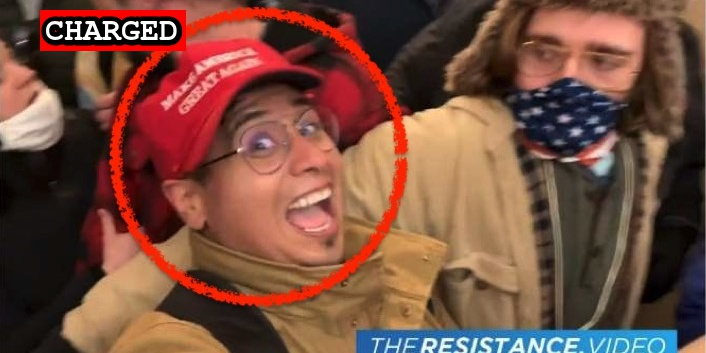
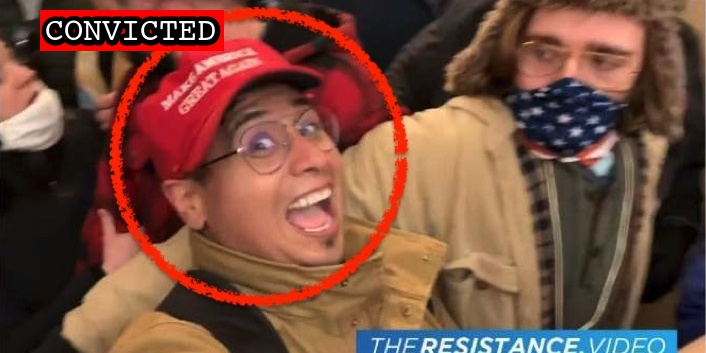
Latest import

Changed region(s): [[0.0623, 0.0, 0.3428, 0.1558]]

diff --git a/docs/_suspects/samuel-montoya.md b/docs/_suspects/samuel-montoya.md
@@ -4,16 +4,16 @@ lastName: Montoya
 hashtag: SamuelMontoya
 aka:
 residence: Texas
-status: Charged
+status: Convicted
 date: 2021-04-08
 charged: 2021-04-08
 indicted:
-convicted: 
+convicted: 2022-11-08
 acquitted:
 sentenced: 
 dismissed: 
 deceased:
-plea_hearing: 2022-11-07
+plea_hearing: 2022-11-08
 trial_date:
 trial_type:
 sentencing:
@@ -31,7 +31,7 @@ raid:
 perpwalk:
 quote: "We have had enough! We’re not gonna take your fucking vaccines! We’re not gonna take all your bullshit! The people are rising up!"
 title: Samuel Montoya charged on April 8, 2021
-description: Click for latest case details. Suspects innocent until proven guilty.
+description: Convicted on November 1, 2022. Click for latest case details.
 author: seditiontrack
 layout: suspect
 published: true
@@ -40,9 +40,15 @@ caseName: USA v. MONTOYA
 judge: John D. Bates
 videos:
 charges:
+- code: 40 USC § 5104(e)(2)(G)
+  title: Parading, demonstrating or picketing in a Capitol building
+  url: https://www.law.cornell.edu/uscode/text/40/5104
+  felony: false
 sentence:
 ---
 - [News Report](https://www.alternet.org/2021/04/samuel-christopher-montoya/)
 - [Complaint](https://www.justice.gov/usao-dc/case-multi-defendant/file/1386666/download)
 - [Statement of Facts](https://www.justice.gov/usao-dc/case-multi-defendant/file/1386671/download)
-- [Information](https://www.justice.gov/usao-dc/case-multi-defendant/file/1392986/download)
+- [Information](https://www.justice.gov/usao-dc/case-multi-defendant/file/1550266/download)
+- [Plea Agreement](https://www.justice.gov/usao-dc/case-multi-defendant/file/1550256/download)
+- [Statement of Offense](https://www.justice.gov/usao-dc/case-multi-defendant/file/1550261/download)

diff --git a/docs/_suspects/michael-eckerman.md b/docs/_suspects/michael-eckerman.md
@@ -4,11 +4,11 @@ lastName: Eckerman
 hashtag: MichaelEckerman
 aka:
 residence: Kansas
-status: Indicted
+status: Convicted
 date: 2021-09-14
 charged: 2021-09-14
 indicted: 2021-10-08
-convicted:
+convicted: 2022-11-08
 acquitted:
 sentenced:
 dismissed:
@@ -31,7 +31,7 @@ raid:
 perpwalk:
 quote:
 title: Michael Eckerman charged on September 14, 2021
-description: Click for latest case details. Suspects innocent until proven guilty.
+description: Convicted on November 1, 2022. Click for latest case details.
 author: seditiontrack
 layout: suspect
 published: true
@@ -40,9 +40,16 @@ caseName: USA v. ECKERMAN
 judge: Christopher R. Cooper
 videos:
 charges:
+  - code: 18 USC § 111(a)(1)
+    title: Assaulting, resisting, or impeding certain officers or employees
+    url: https://www.law.cornell.edu/uscode/text/18/111
+    felony: true
 sentence:
 ---
+
 - [News Report](https://www.newsweek.com/capitol-rioter-arrested-allegedly-pushing-officer-down-stairs-1631343)
 - [Complaint](https://extremism.gwu.edu/sites/g/files/zaxdzs2191/f/Michael%20Eckerman%20Criminal%20Complaint.pdf)
 - [Statement of Facts](https://www.justice.gov/usao-dc/case-multi-defendant/file/1434391/download)
-- [Indictment](https://storage.courtlistener.com/recap/gov.uscourts.dcd.236365/gov.uscourts.dcd.236365.15.0.pdf)
+- [Indictment](https://www.justice.gov/usao-dc/case-multi-defendant/file/1550331/download)
+- [Plea Agreement](https://www.justice.gov/usao-dc/case-multi-defendant/file/1550321/download)
+- [Statement of Offense](https://www.justice.gov/usao-dc/case-multi-defendant/file/1550326/download)
